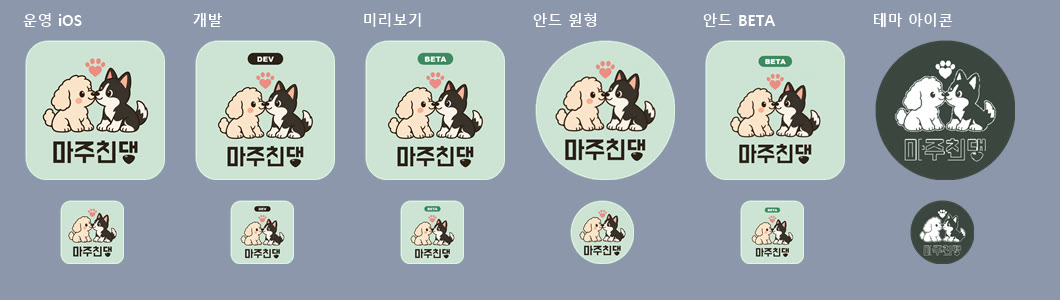
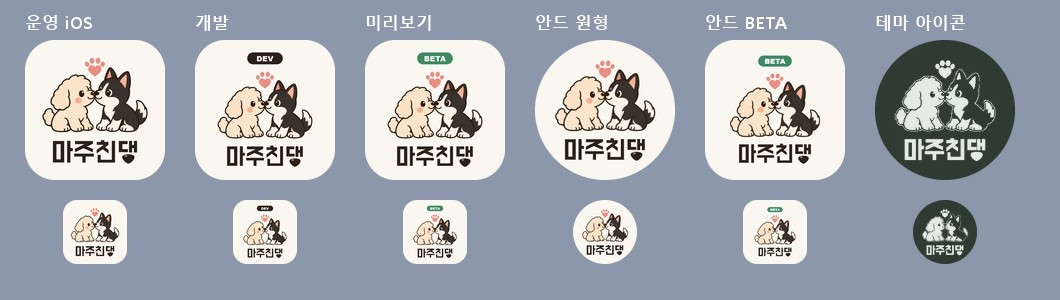
소개 문구 정리(역할·상태·출시 표현) + 크림 아이콘·따뜻한 배경·새 초록(#3B7350)으로 화면 사진 교체

diff --git a/index.html b/index.html
@@ -11,11 +11,11 @@
 <style>
 /* Layout: 산책로처럼 위에서 아래로 한 줄기 — 각 구간은 폰 화면과 글이 번갈아 서는 넓은 2열, 폰 폭에서는 1열 */
 :root {
-  --bg: #F7F7F8;        /* 앱 배경 회백색 */
+  --bg: #F8F7F4;        /* 앱 배경 따뜻한 회백색 */
   --paper: #FFFFFF;
   --cream: #FAF6F0;     /* 로그인 배경 */
-  --mint: #CDE3D4;      /* 아이콘 배경 */
-  --action: #367C55;    /* 행동 색 */
+  --mint: #E3EFE6;      /* 연한 초록 바탕 (태그) */
+  --action: #3B7350;    /* 행동 색 */
   --ink: #1F2A24;
   --muted: #5E6B63;
   --line: #E1E6E2;
@@ -155,8 +155,8 @@ a:focus-visible, .gallery:focus-visible { outline: 2px solid var(--action); outl
       <p class="lead">같은 동네에서 산책하는 보호자끼리 친구가 되고, 오늘 같은 공원에 있었던 강아지를 산책이 끝난 뒤에 알려 주는 모바일 앱입니다. 서비스 기획과 규칙 설계, 테스트는 직접 하고, 코드 구현은 AI 코딩 도구(Claude Code)와 함께 진행했습니다.</p>
       <dl class="facts">
         <div><dt>기간</dt><dd>2026.10 ~ 진행 중</dd></div>
-        <div><dt>역할</dt><dd>1인 · AI 협업</dd></div>
-        <div><dt>상태</dt><dd>베타 출시 준비</dd></div>
+        <div><dt>역할</dt><dd>기획 · 설계 · 개발 · 테스트</dd></div>
+        <div><dt>상태</dt><dd>안드로이드 실기기 테스트 중</dd></div>
       </dl>
       <div class="chips">
         <span class="chip">React Native · Expo</span>
@@ -168,7 +168,7 @@ a:focus-visible, .gallery:focus-visible { outline: 2px solid var(--action); outl
         <span class="chip">Expo Push</span>
         <span class="chip">카카오 · Google 로그인</span>
       </div>
-      <p class="note">출시 전 서비스라 소스 코드는 비공개 저장소에 있습니다. 요청하시면 열람 권한을 드립니다.</p>
+      <p class="note">소스 코드는 비공개 저장소에 있으며, 요청하시면 열람 권한을 드립니다.</p>
     </div>
     <div class="phone"><img src="shots/login.jpg" alt="마주친댕 로그인 화면 — 코를 맞댄 두 강아지 그림과 카카오·Google 로그인 버튼"></div>
   </div>
@@ -317,7 +317,7 @@ a:focus-visible, .gallery:focus-visible { outline: 2px solid var(--action); outl
       <div class="sec-head">
         <p class="eyebrow">문제 해결</p>
         <h2>만들면서 부딪힌 문제들</h2>
-        <p class="lead">출시 전에 기능을 하나씩 직접 써 보며 문제를 찾았고, 신뢰·안전·데이터에 관한 것부터 고쳤습니다. 그중 일부입니다.</p>
+        <p class="lead">기능을 하나씩 직접 써 보며 문제를 찾았고, 신뢰·안전·데이터에 관한 것부터 고쳤습니다. 그중 일부입니다.</p>
       </div>
       <div class="cases">
         <article class="case">
@@ -379,9 +379,9 @@ a:focus-visible, .gallery:focus-visible { outline: 2px solid var(--action); outl
         <div class="txt" style="display:grid;gap:12px;align-content:start">
           <h3>정한 기준</h3>
           <ul style="margin:0;padding-left:18px;color:var(--muted);display:grid;gap:8px">
-            <li>아이콘 · 시작 화면 배경: 민트</li>
-            <li>로그인 배경: 크림 (그림이 더 따뜻해 보이도록 일부러 다르게)</li>
-            <li>버튼 등 행동 색: 민트 그린, 오류 문구는 따로 빨간색</li>
+            <li>아이콘 · 시작 화면 · 로그인 배경: 같은 크림으로 통일</li>
+            <li>앱 배경: 크림과 어울리는 따뜻한 회백색</li>
+            <li>버튼 등 행동 색: 크림에 맞춘 따뜻한 초록 하나, 오류 문구는 따로 빨간색</li>
             <li>색을 바꾸면 아이콘 · 시작 화면 · 알림 · 웹 아이콘까지 10곳을 함께 점검</li>
           </ul>
         </div>
